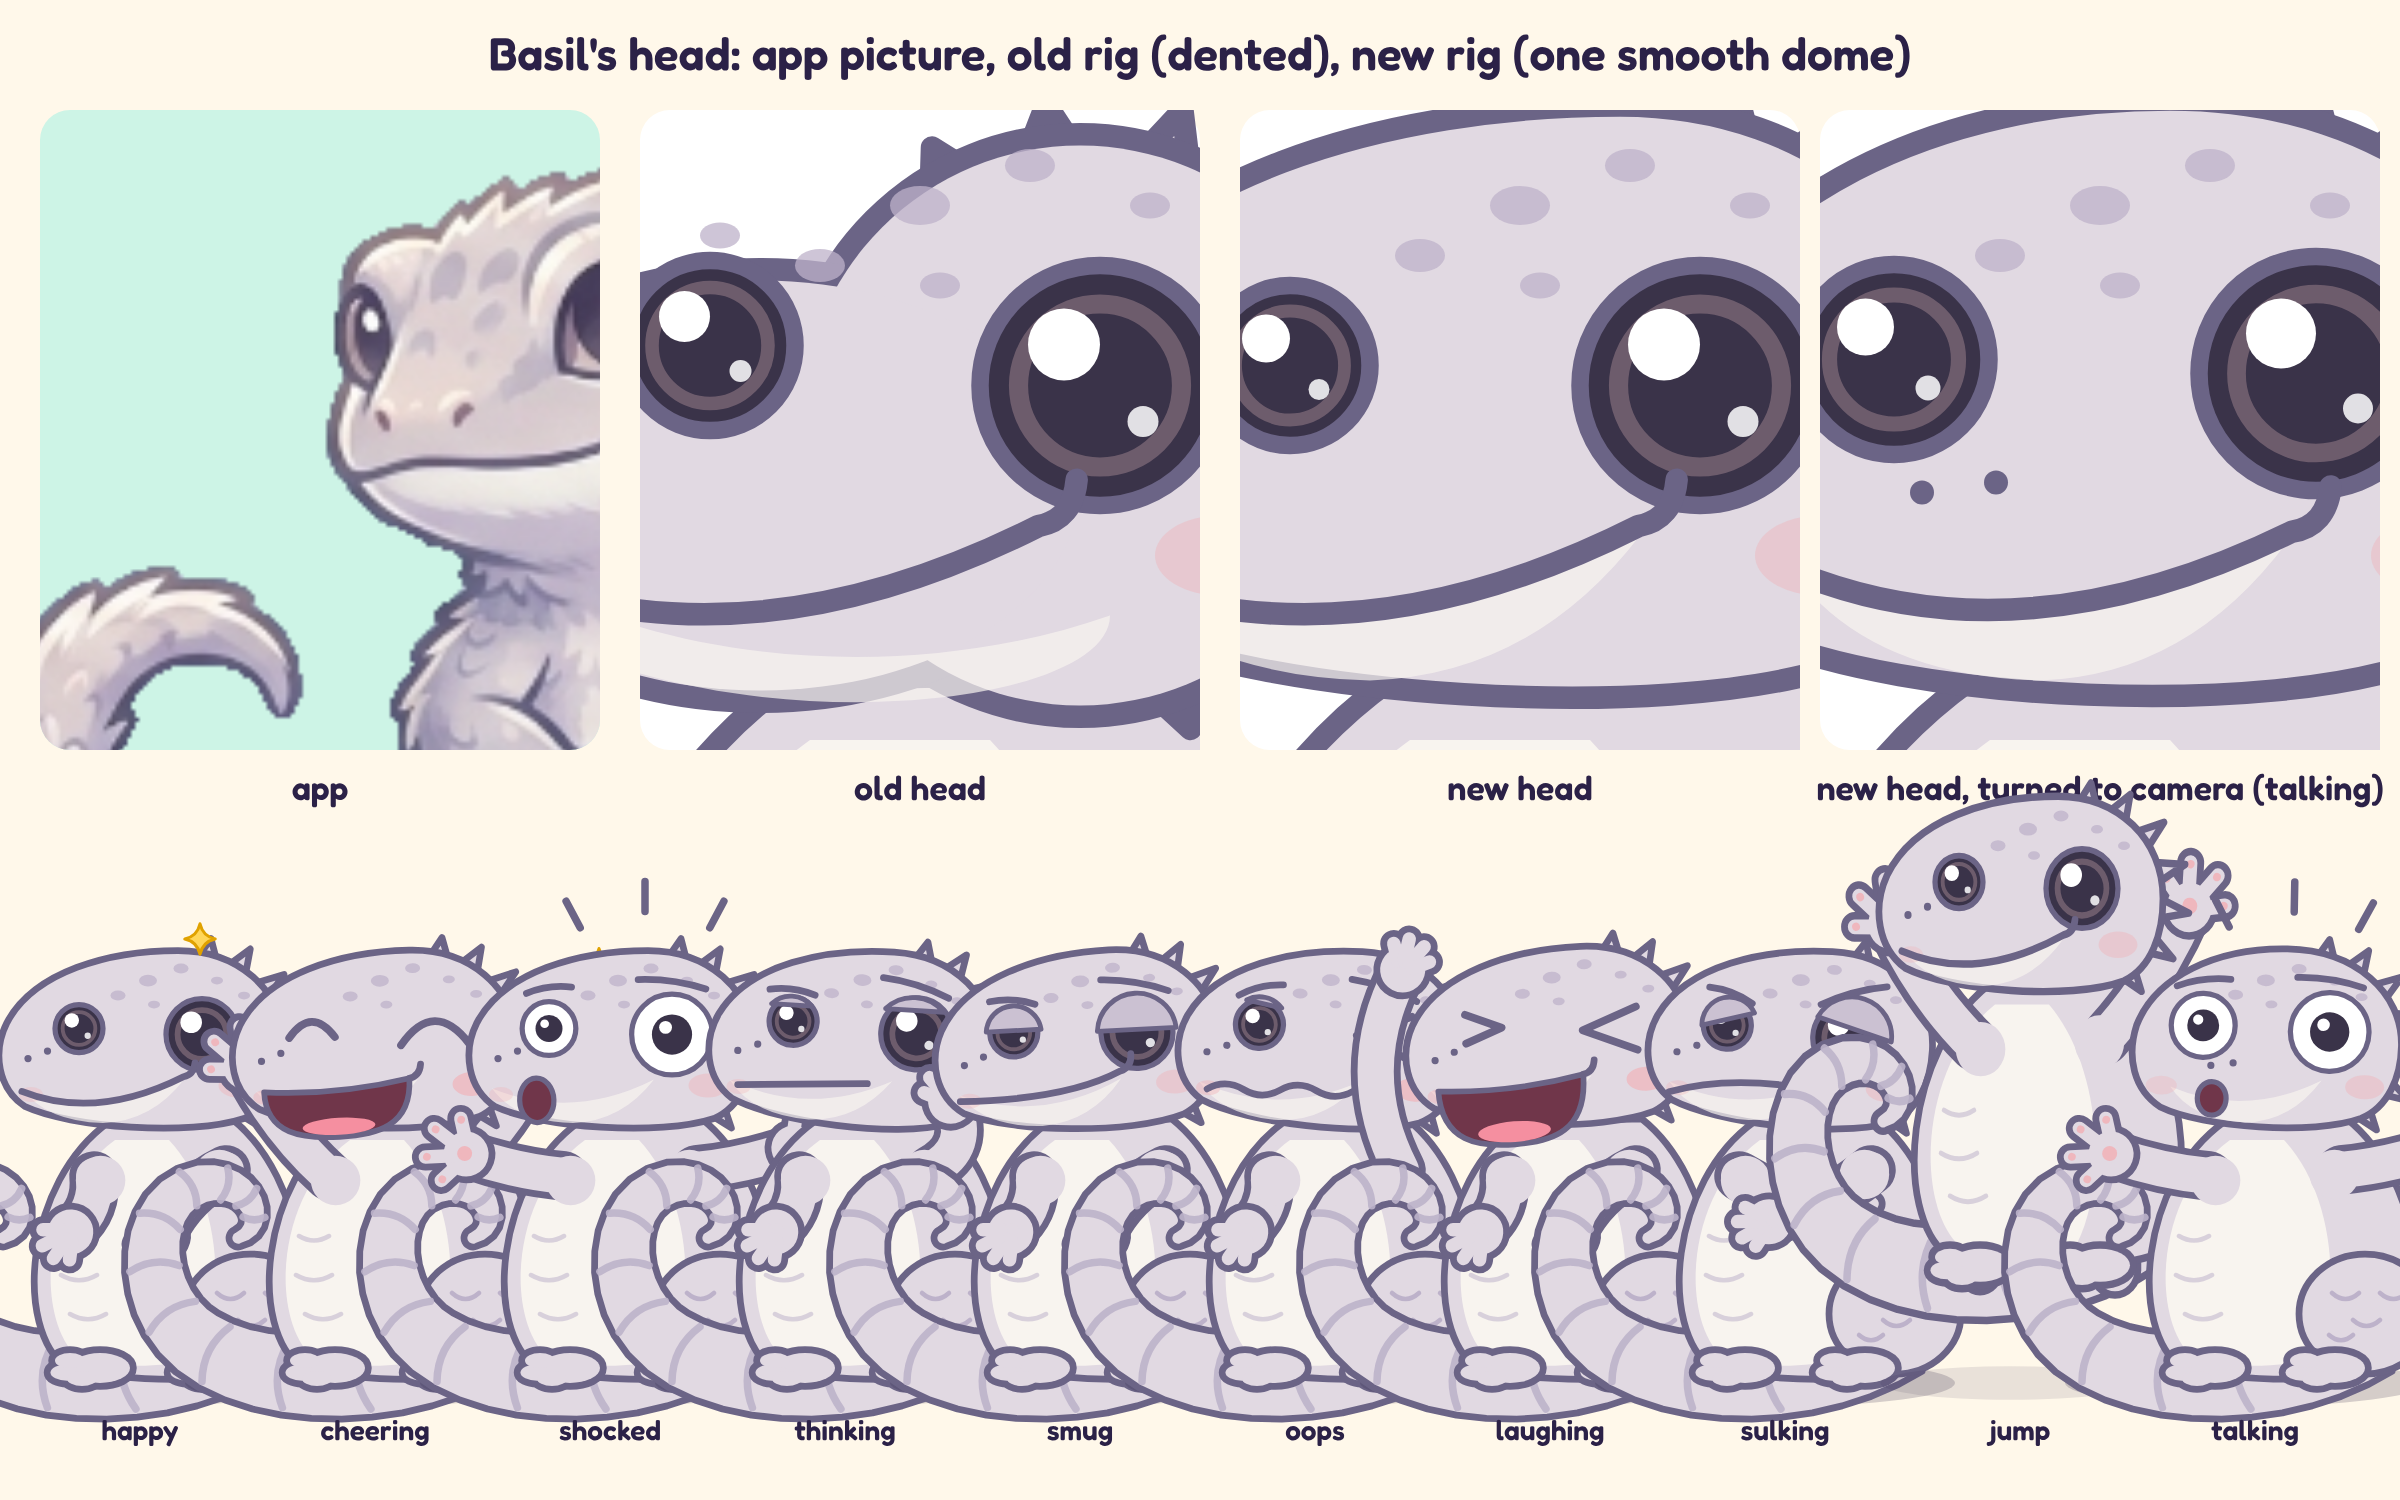
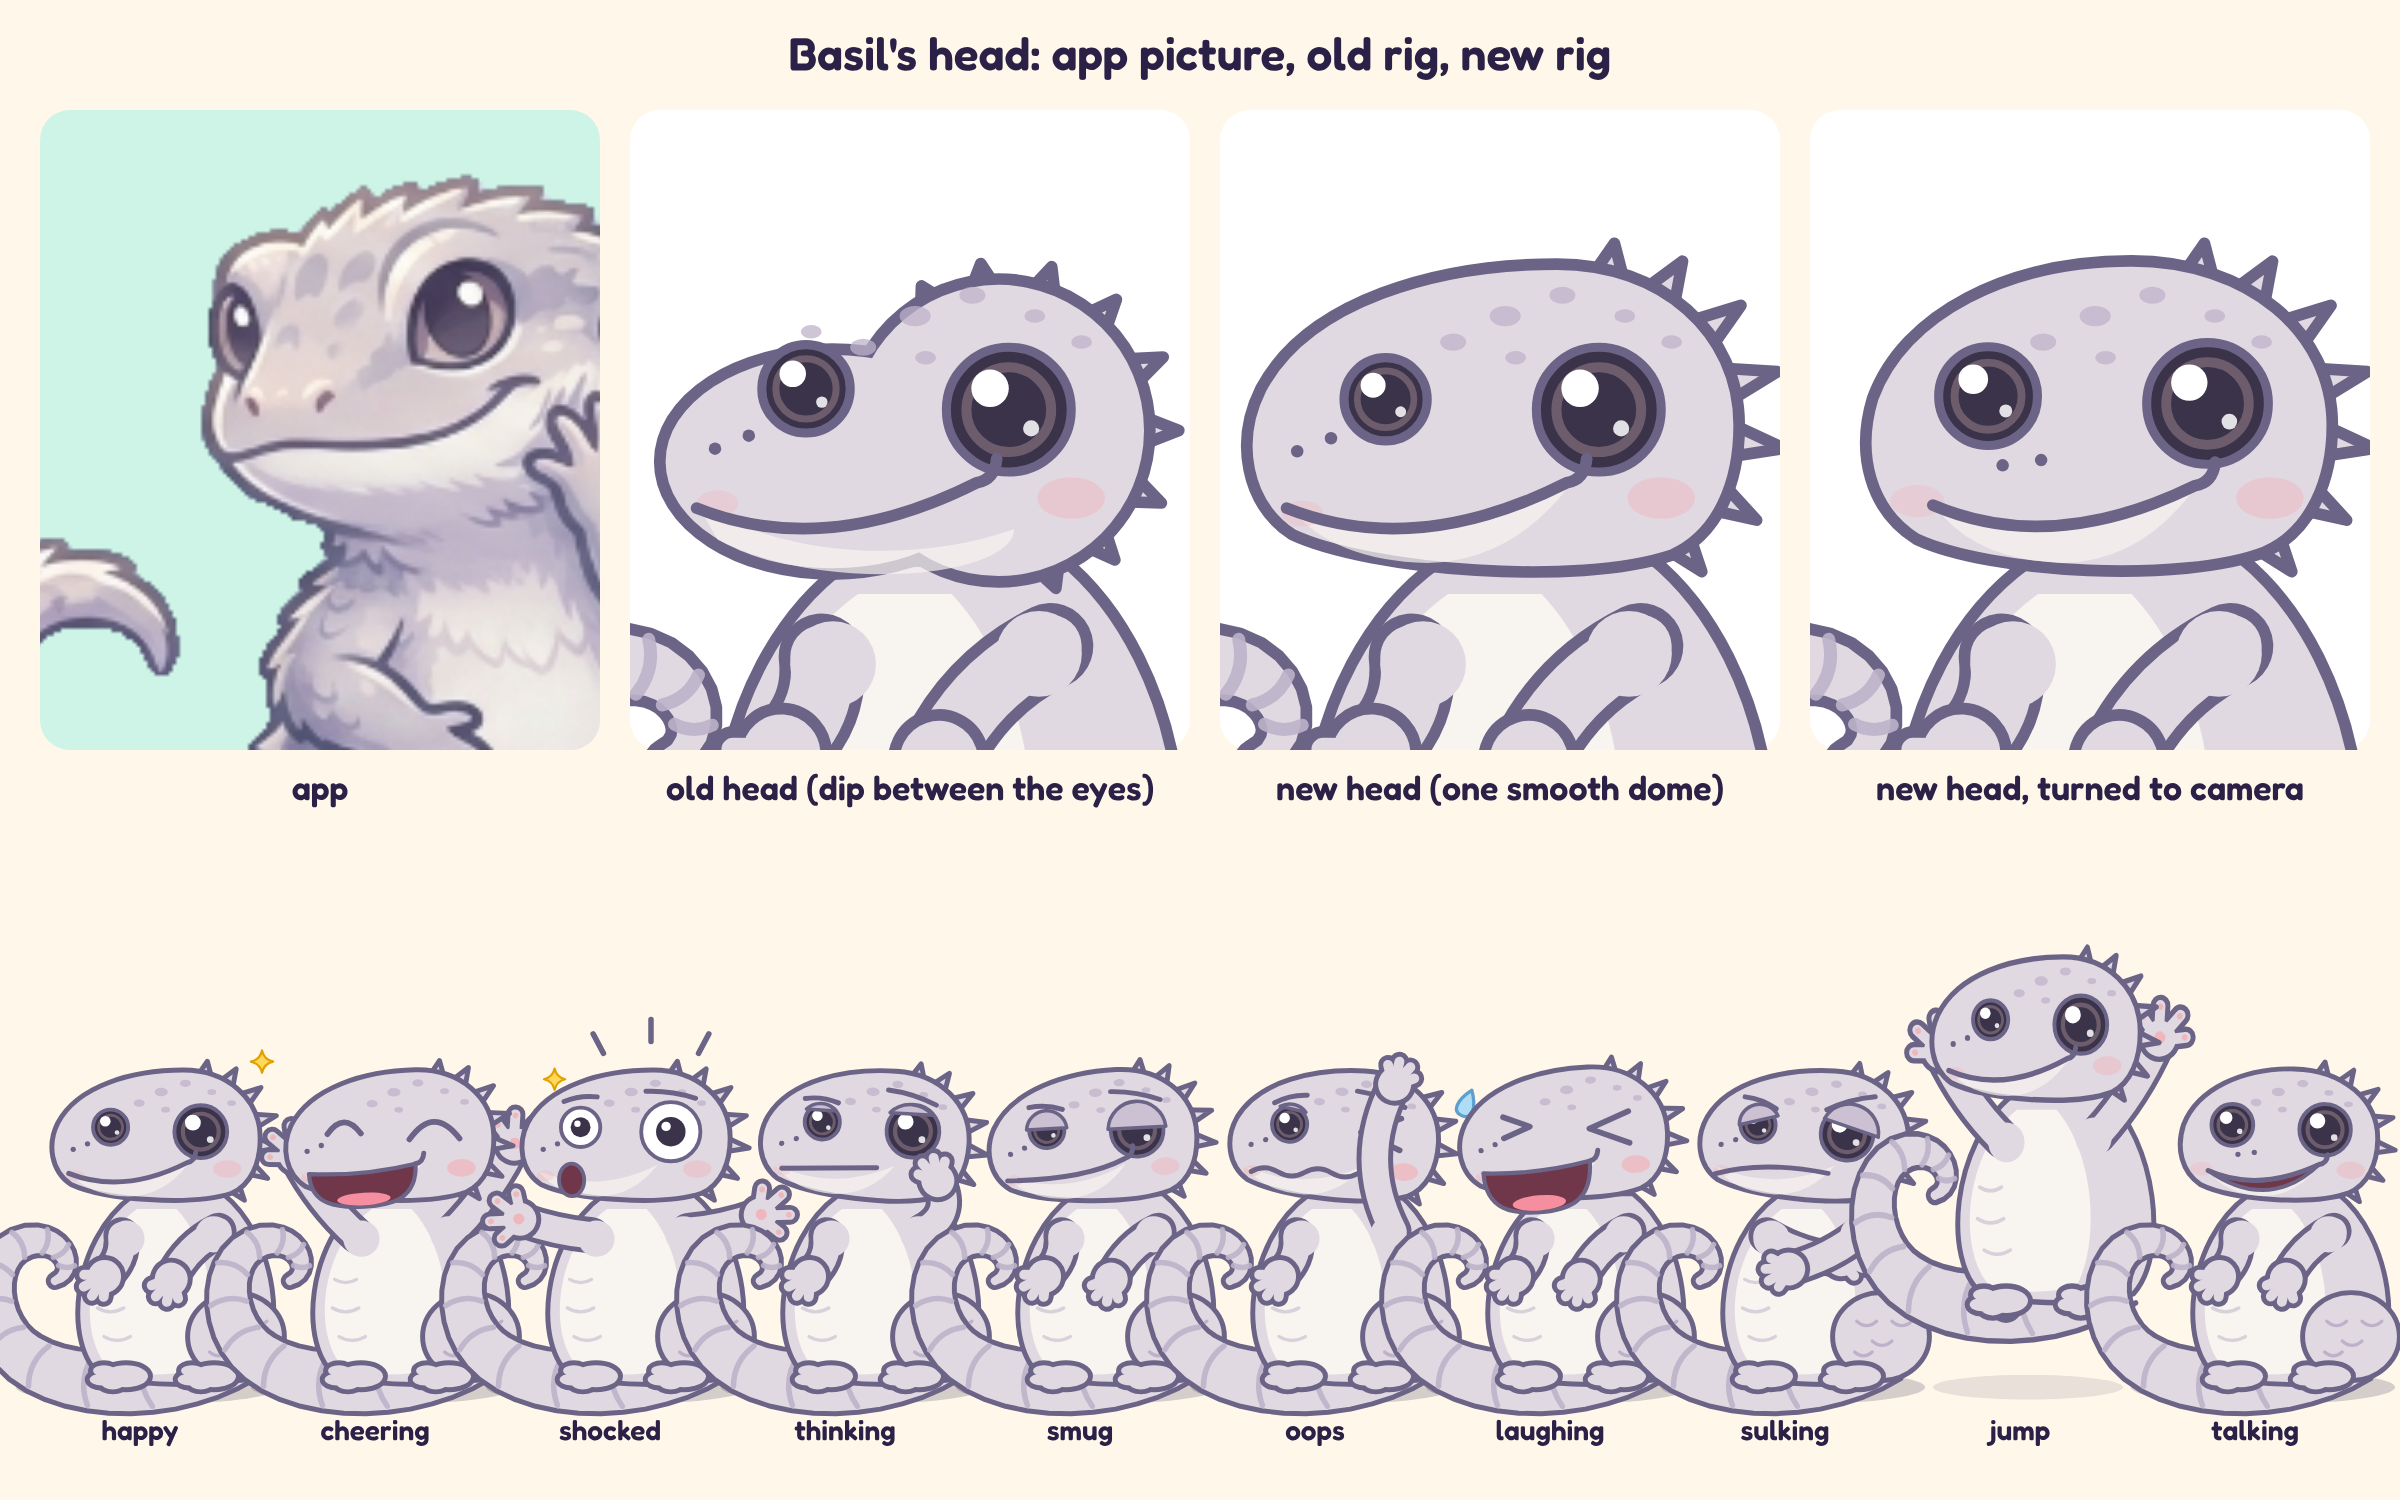
WIP: Basil head fix in progress
Claude-Session: https://claude.ai/code/session_017vcscXTweEdXk7zMTDrzTD

diff --git a/production/workspace/explained2/characters/basil_head_fix.html b/production/workspace/explained2/characters/basil_head_fix.html
@@ -6,13 +6,14 @@ html,body{margin:0;background:#FFF8EA} svg{display:block} text{font-family:Fredo
 <script src="buddies.js"></script>
 <script>
 const T = (x, y, s, z = 34) => `<text x="${x}" y="${y}" font-size="${z}" text-anchor="middle">${s}</text>`;
-let o = `<rect width="2400" height="1500" fill="#FFF8EA"/>` + T(1200, 70, "Basil's head: app picture, old rig (dented), new rig (one smooth dome)", 46);
-o += `<rect x="40" y="110" width="560" height="640" rx="30" fill="#CDF4E6"/><image href="app/liz-sit.png" x="-60" y="140" width="1000" height="1000" clip-path="inset(0 0 0 0)"/>` ;
+let o = `<rect width="2400" height="1500" fill="#FFF8EA"/>` + T(1200, 70, "Basil's head: app picture, old rig, new rig", 46);
+o += `<rect x="40" y="110" width="560" height="640" rx="30" fill="#CDF4E6"/><image href="app/liz-sit.png" x="-148" y="160" width="904" height="890" clip-path="inset(0 0 0 0)"/>` ;
 o = `<defs><clipPath id="c"><rect x="40" y="110" width="560" height="640" rx="30"/></clipPath></defs>` + o.replace('clip-path="inset(0 0 0 0)"', 'clip-path="url(#c)"') + T(320, 800, "app");
-const cell = (B, x, lab, opt) => `<rect x="${x - 280}" y="110" width="560" height="640" rx="30" fill="#fff"/><svg x="${x - 280}" y="110" width="560" height="640" viewBox="${x - 280} 110 560 640">${B.draw("basil", x + 40, 1540, 1500, 1, Object.assign({ facing: "left", shadow: false }, opt))}</svg>` + T(x, 800, lab);
-o += cell(OLD, 920, "old head") + cell(Buddies, 1520, "new head") + cell(Buddies, 2100, "new head, turned to camera (talking)", { look: .6 });
+const cell = (B, x, lab) => { const opt = lab.includes("camera") ? { look: .6 } : {}; return cell0(B, x, lab, opt); };
+const cell0 = (B, x, lab, opt) => `<rect x="${x - 280}" y="110" width="560" height="640" rx="30" fill="#fff"/><svg x="${x - 280}" y="110" width="560" height="640" viewBox="${x - 280} 110 560 640">${B.draw("basil", x + 26, 1010, 780, 1, Object.assign({ facing: "left", shadow: false }, opt))}</svg>` + T(x, 800, lab);
+o += cell(OLD, 910, "old head (dip between the eyes)") + cell(Buddies, 1500, "new head (one smooth dome)") + cell(Buddies, 2090, "new head, turned to camera");
 // every expression and the risky gestures, new head
-const list = [["happy", {}], ["cheering", { expr: "cheering" }], ["shocked", { expr: "shocked" }], ["thinking", { expr: "thinking" }], ["smug", { expr: "smug" }], ["oops", { expr: "oops" }], ["laughing", { expr: "laughing" }], ["sulking", { expr: "sulking" }], ["jump", { pose: "jump", air: .8 }], ["talking", { talking: true, expr: "shocked" }]];
-list.forEach(([l, op], i) => { const x = 140 + i * 235; o += Buddies.draw("basil", x + 20, 1380, 440, 1.3, Object.assign({ facing: "left" }, op)) + T(x, 1440, l, 28); });
+const list = [["happy", {}], ["cheering", { expr: "cheering" }], ["shocked", { expr: "shocked" }], ["thinking", { expr: "thinking" }], ["smug", { expr: "smug" }], ["oops", { expr: "oops" }], ["laughing", { expr: "laughing" }], ["sulking", { expr: "sulking" }], ["jump", { pose: "jump", air: .8 }], ["talking", { talking: true }]];
+list.forEach(([l, op], i) => { const x = 140 + i * 235; o += Buddies.draw("basil", x + 30, 1385, 330, 1.3, Object.assign({ facing: "left" }, op)) + T(x, 1440, l, 28); });
 document.getElementById("v").innerHTML = o;
 </script></body></html>
